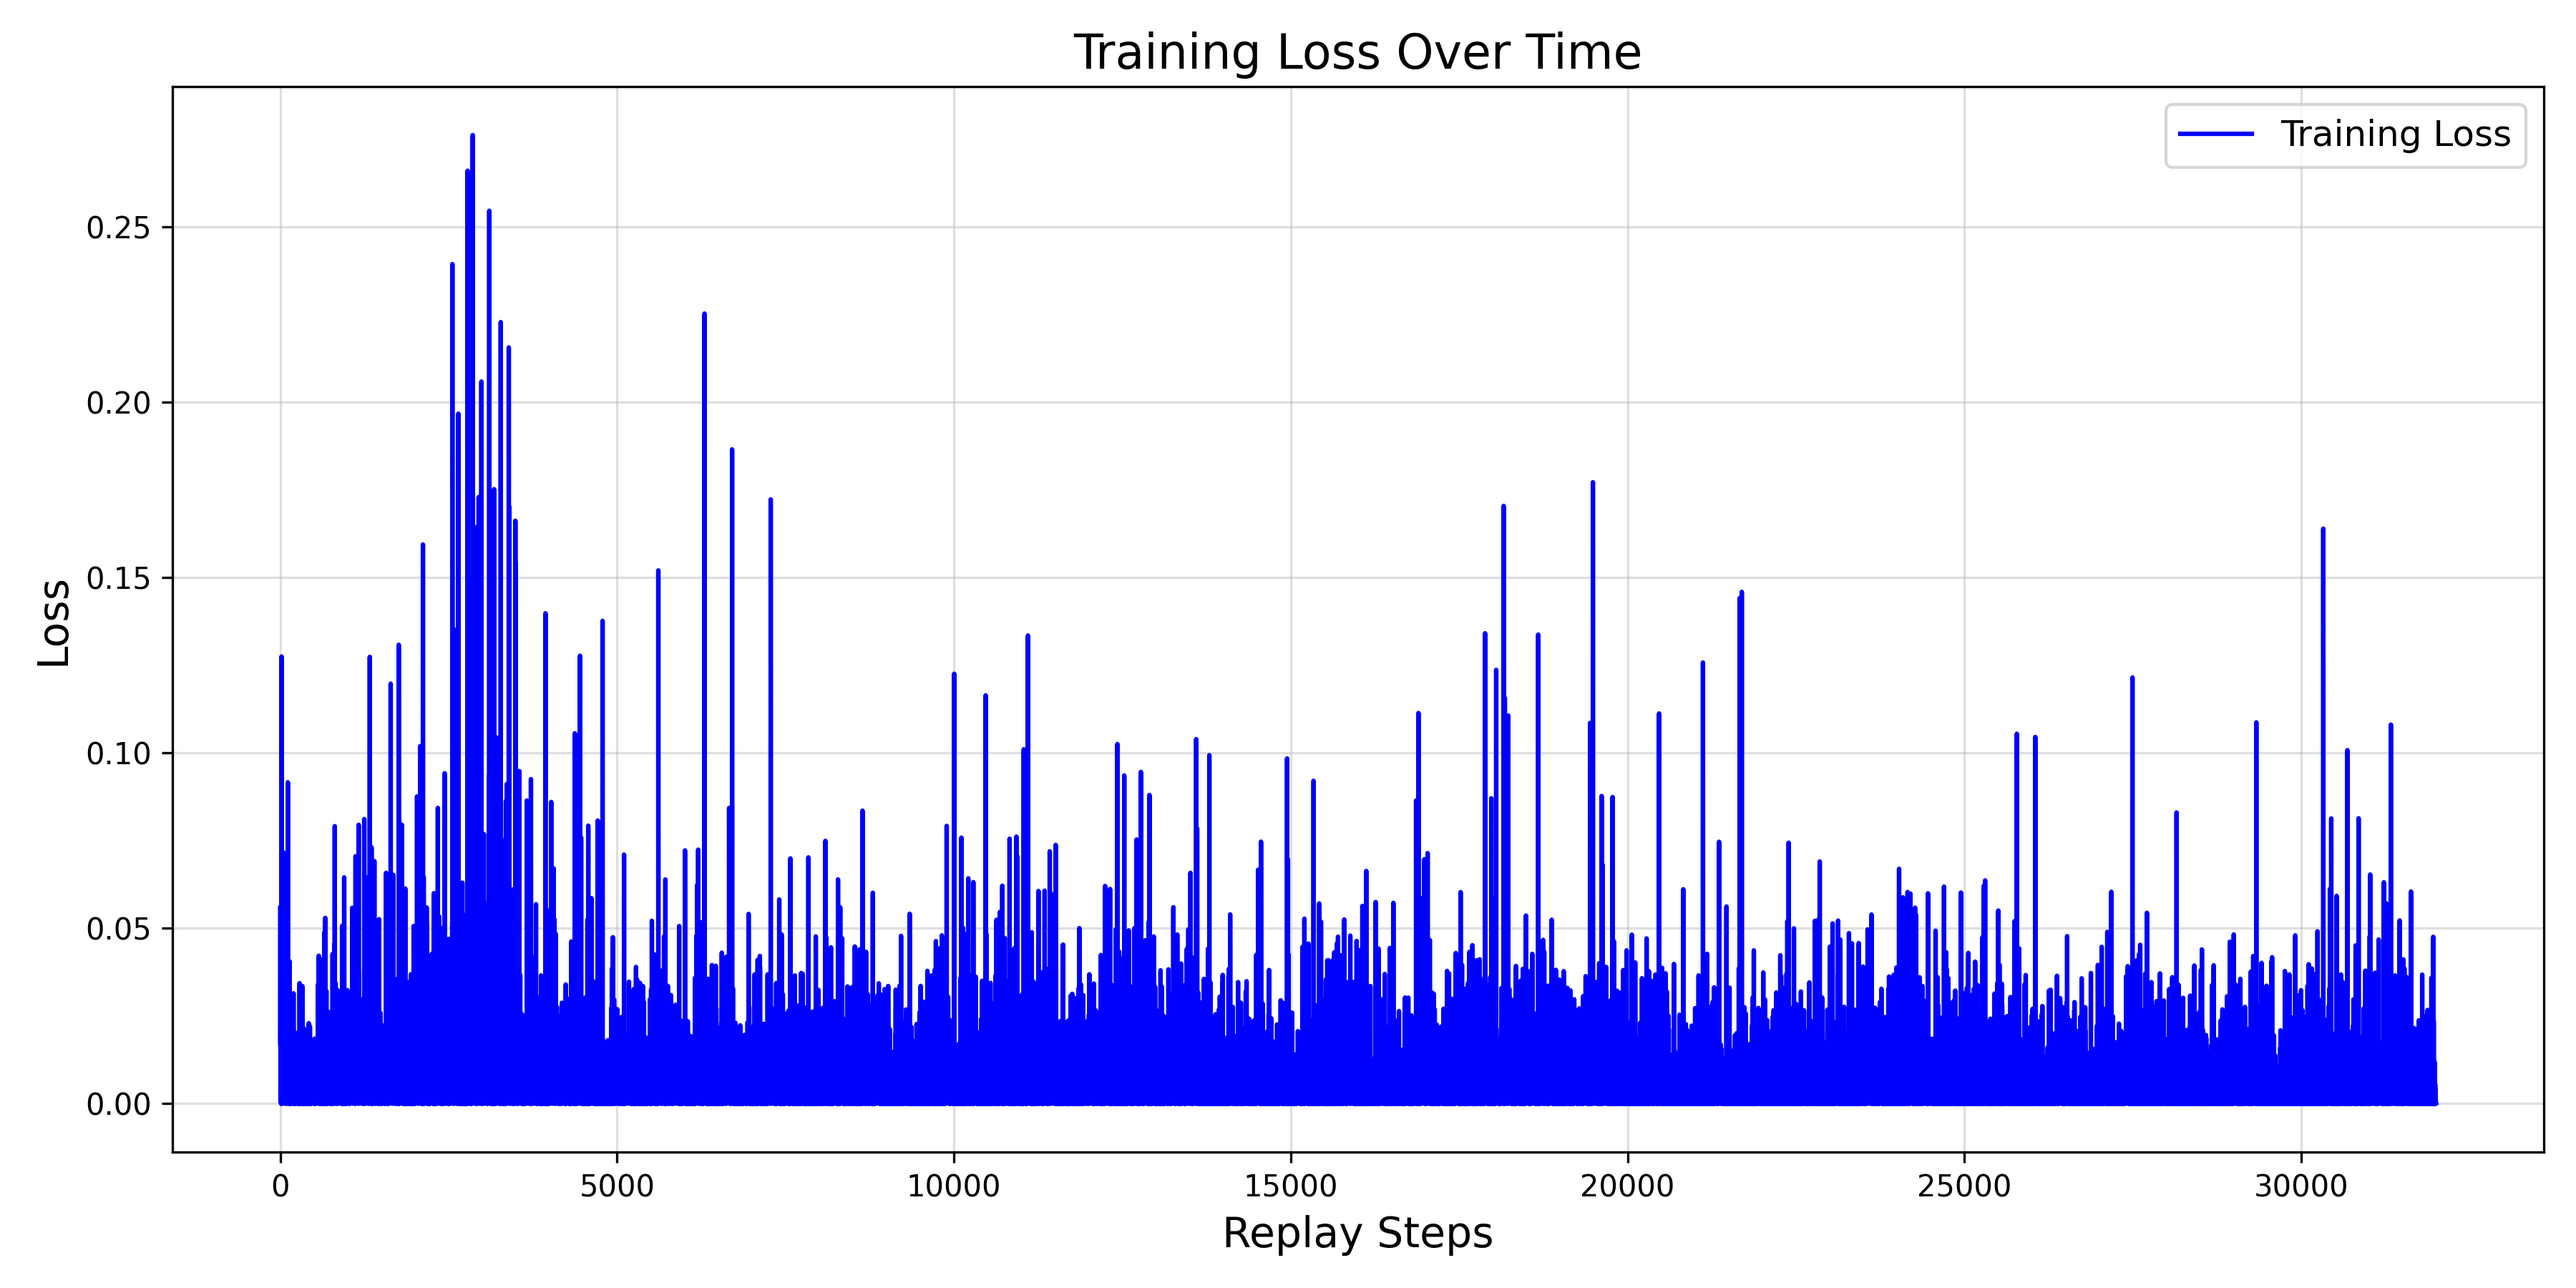
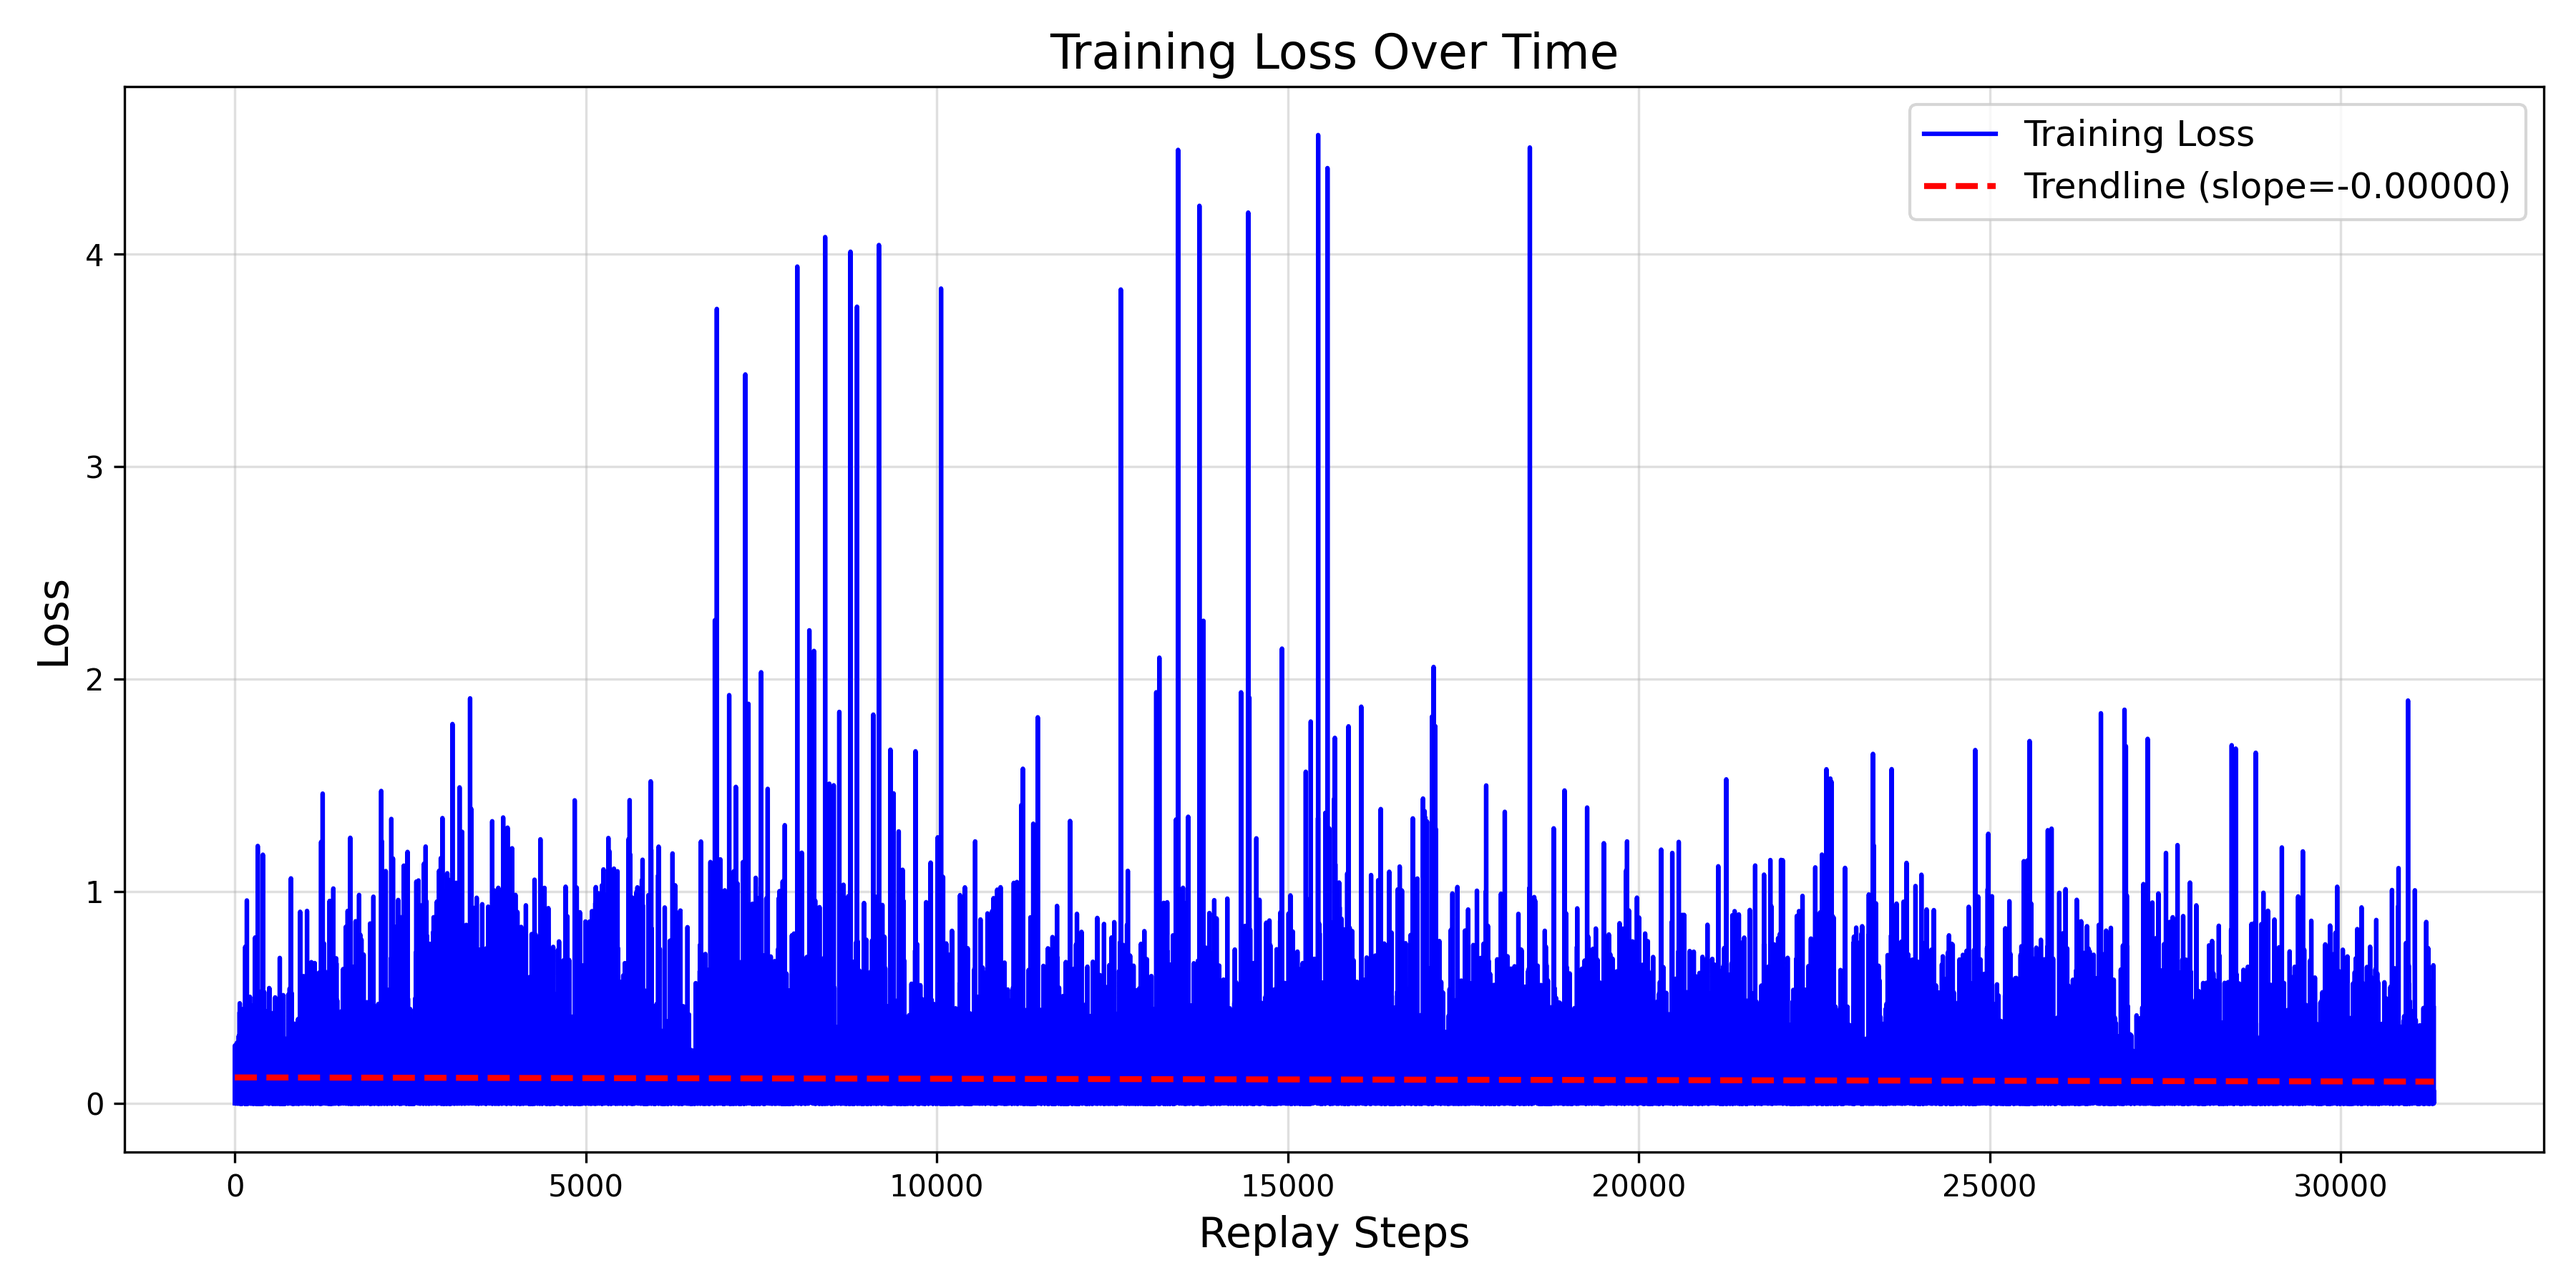
better evaluation plots

diff --git a/main.py b/main.py
@@ -59,6 +59,7 @@ def main():
         state = copy.deepcopy(state)
         total_reward = 0
         done = False
+        steps = 0  # Track the number of steps in the episode
 
         for step in range(max_steps):
             # Select actions
@@ -82,13 +83,17 @@ def main():
 
             # Accumulate reward
             total_reward += reward
+            steps += 1
 
             # Break if game ends
             if done:
                 break
 
+        # Calculate the average reward for the episode
+        average_reward = total_reward / steps if steps > 0 else 0
+
         # Train the model after collecting enough experiences
-        if dqn.memory.length() >= dqn.batch_size:
+        if dqn.memory.length() >= 5 * dqn.batch_size:
             losses = dqn.replay(env)
             all_losses.extend(losses)
 
@@ -100,11 +105,9 @@ def main():
         dqn.exploration_rate = max(dqn.exploration_min, dqn.exploration_rate * dqn.exploration_decay)
 
         # Log rewards
-        all_rewards.append(total_reward)
+        all_rewards.append(average_reward)
         if episode % 10 == 0:
-            print(f"Episode {episode}/{num_episodes} - Reward: {total_reward}")
-
-    print(f"Unique states in replay buffer: {len(set([str(exp[0]) for exp in dqn.memory.data]))}")
+            print(f"Episode {episode}/{num_episodes} - Average Reward: {average_reward:.2f}")
 
     # --- Save Animation ---
     # print("Creating animation...")
@@ -129,7 +132,8 @@ def main():
     y = np.array(all_losses)  # Losses as y-axis values
     slope, intercept, _, _, _ = linregress(x, y)  # Linear regression
     trendline = slope * x + intercept  # Calculate trendline
-    plt.plot(x, trendline, color='red', linestyle='--', linewidth=2, label="Trendline (slope={slope:.5f})")
+    plt.plot(x, trendline, color='red', linestyle='--', linewidth=2, label=f"Trendline (slope={slope:.5f})")
+
 
     # Labels and title
     plt.xlabel("Replay Steps", fontsize=14)

diff --git a/dqn.py b/dqn.py
@@ -1,16 +1,11 @@
 import numpy as np
 import copy
-import random
-from pprint import pprint
 from replay_buffer import PrioritizedReplayBuffer
 import torch
-
 from torch_geometric.data import Data
-from torch_geometric.loader import DataLoader
-
 from game import Environment
-
 from config import config
+import torch.optim as optim
 
 
 class DQN:
@@ -39,6 +34,7 @@ class DQN:
         self.loss_fn = torch.nn.MSELoss()
         self.optim = torch.optim.Adam(
             model.parameters(), lr=self.learning_rate)
+        self.scheduler = optim.lr_scheduler.ExponentialLR(self.optim, gamma=self.learning_rate_decay)
 
     def update_target_model(self):
         self.target_model.load_state_dict(self.model.state_dict())
@@ -186,6 +182,9 @@ class DQN:
 
             loss = self.train_model(env, state, q_values)
             losses.append(loss)
+
+        # Step the scheduler to decay the learning rate
+        self.scheduler.step()
 
         return losses
 

diff --git a/config.py b/config.py
@@ -3,7 +3,7 @@ import torch
 config = {
     # General settings
     "device": "cuda" if torch.cuda.is_available() else "cpu",
-    "num_episodes": 5000,
+    "num_episodes": 1000,
     "max_steps": 50,
 
     # Environment settings
@@ -34,12 +34,12 @@ config = {
     "action_size": 4,
     "learning_rate_max": 0.001,
     "learning_rate_decay": 0.995,
-    "gamma": 0.75,
+    "gamma": 0.95,
     "memory_size": 2000,
     "batch_size": 32,
-    "exploration_max": 1.0,
+    "exploration_max": 1.2,
     "exploration_min": 0.01,
-    "exploration_decay": 0.995,
+    "exploration_decay": 0.999,
 
     # Model settings
     "gnn_type": "GraphSage",  # Options are "GAT", "GraphSage", or "GCN"
